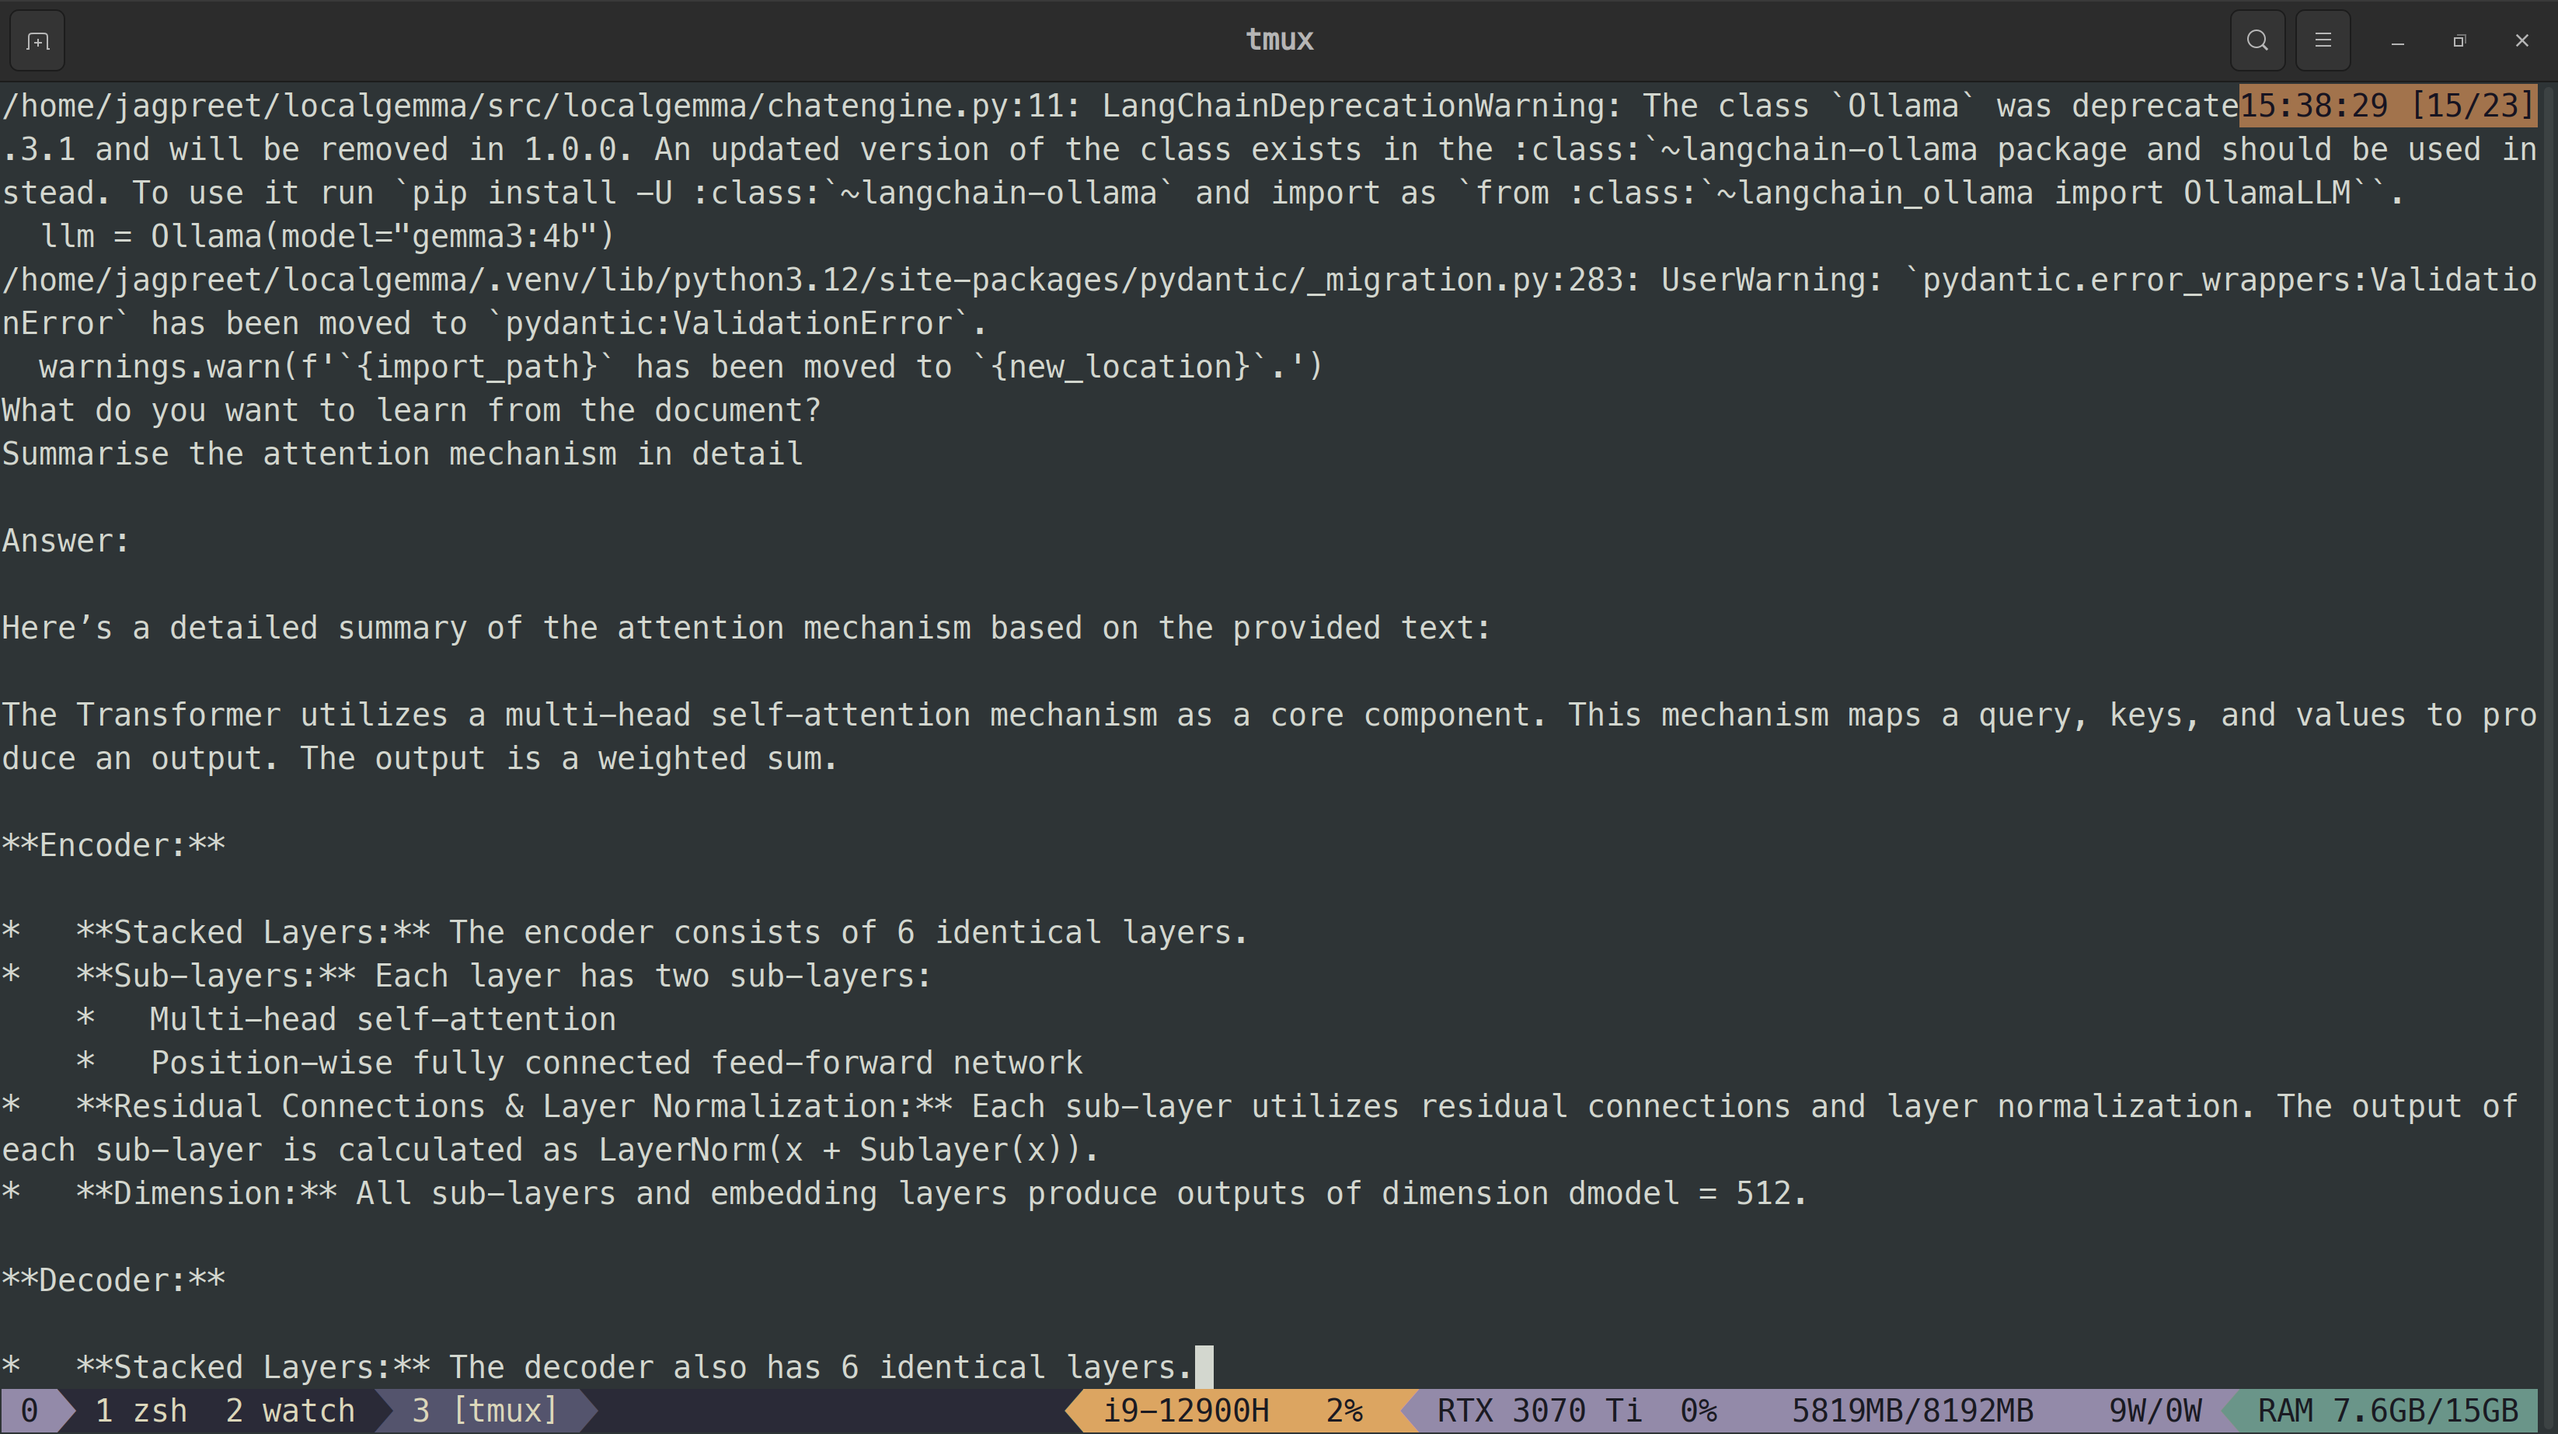
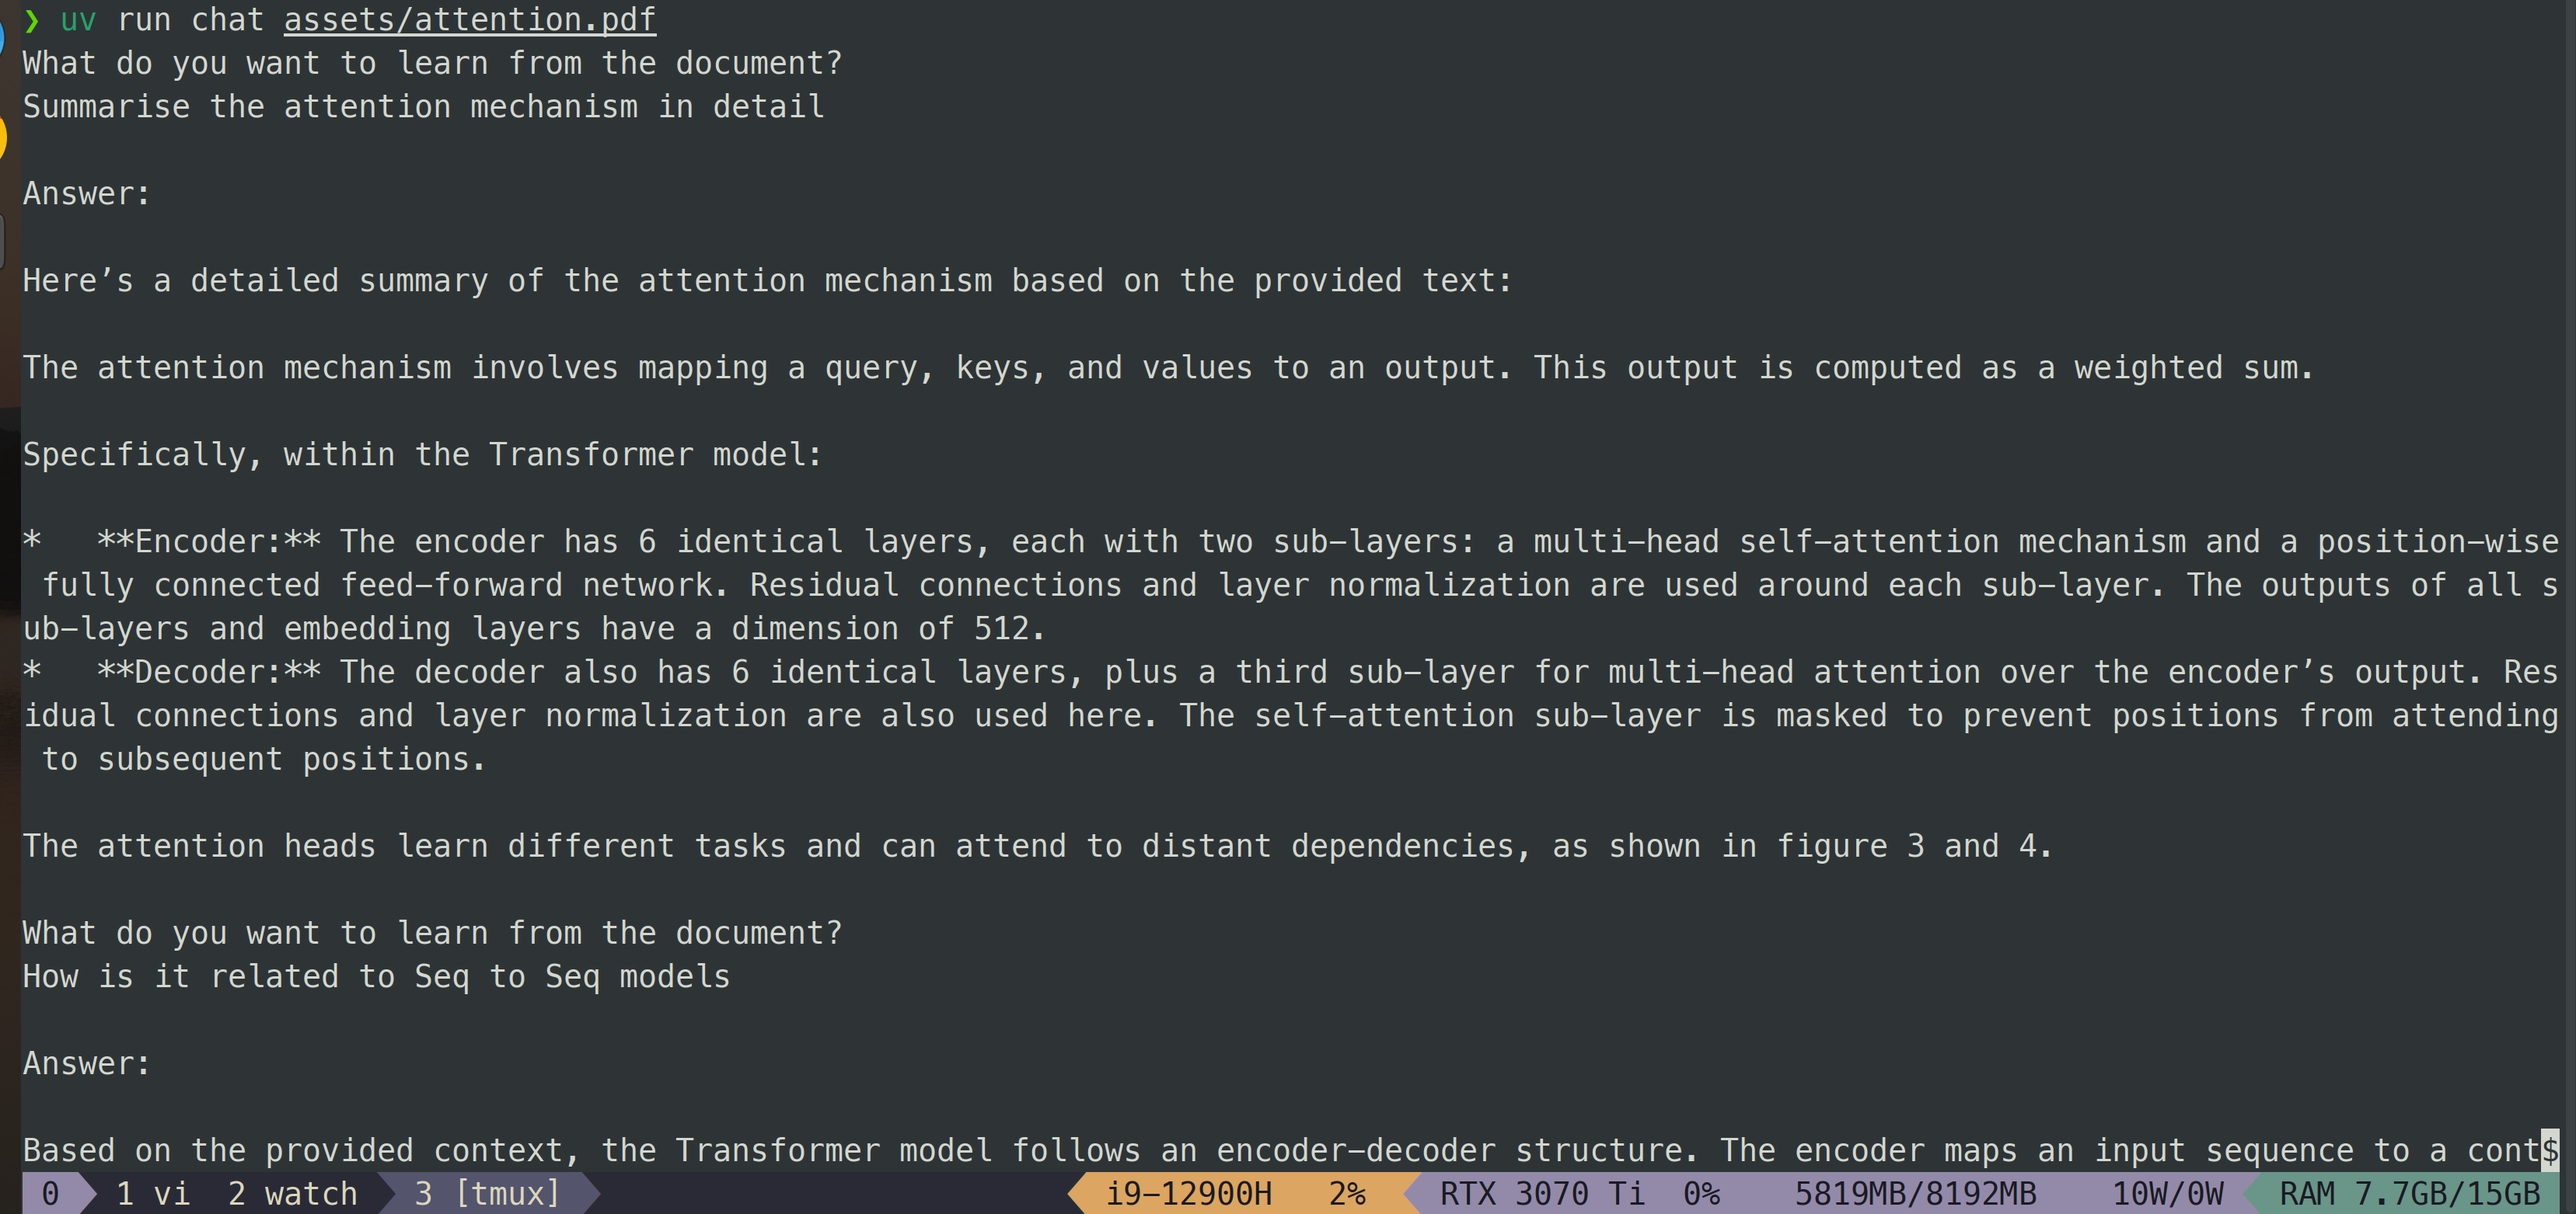
Polishing

diff --git a/src/localgemma/chatengine.py b/src/localgemma/chatengine.py
@@ -1,4 +1,4 @@
-from langchain_community.llms import Ollama
+from langchain_ollama import OllamaLLM
 from langchain_community.document_loaders import PyPDFLoader
 from langchain.prompts import PromptTemplate
 from langchain_community.vectorstores import DocArrayInMemorySearch
@@ -6,9 +6,12 @@ from langchain_ollama import OllamaEmbeddings
 from langchain_core.output_parsers import StrOutputParser
 from langchain_core.runnables import RunnablePassthrough
 import sys
+import warnings
+warnings.filterwarnings("ignore", category=UserWarning)
+
 
 # Initialize models
-llm = Ollama(model="gemma3:4b")
+llm = OllamaLLM(model="gemma3:4b")
 embedding_model = OllamaEmbeddings(model="bge-m3:567m")
 
 # Load PDF and build vector store
